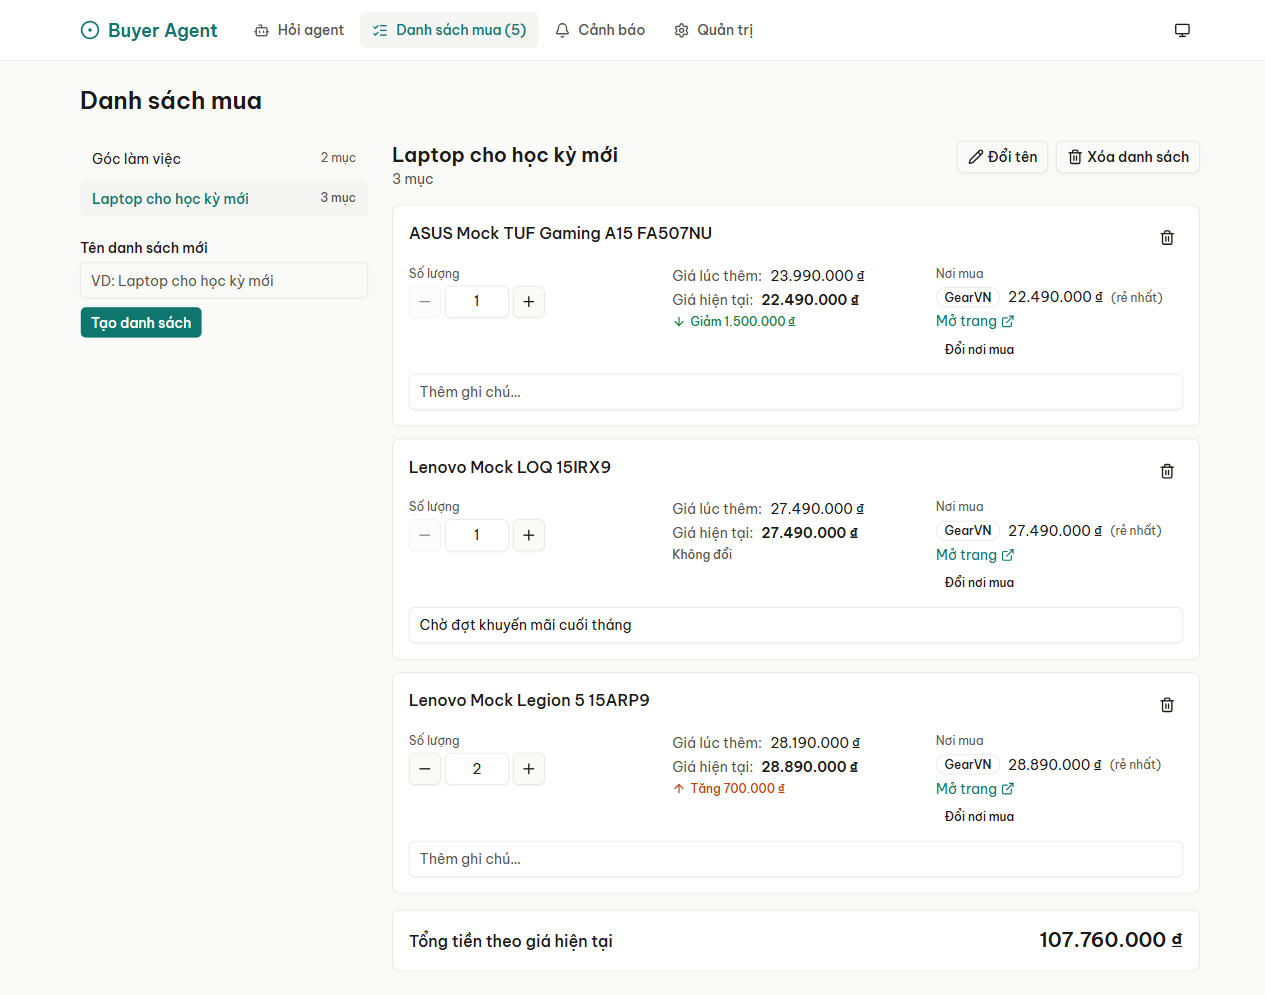
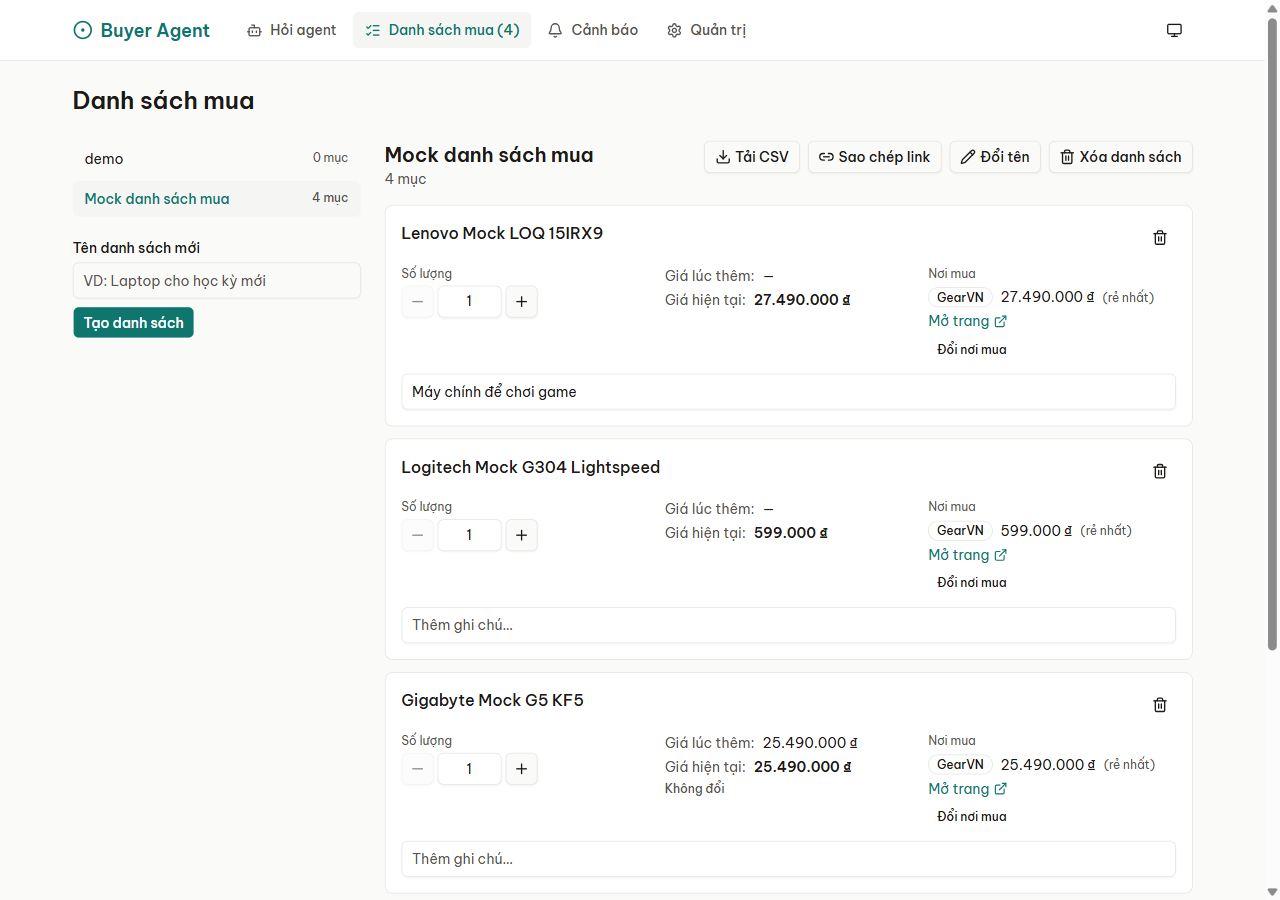
feat(X3.2): download CSV and copy link buttons on list detail

diff --git a/frontend/src/features/lists/CopyLinkButton.test.tsx b/frontend/src/features/lists/CopyLinkButton.test.tsx
@@ -1,0 +1,85 @@
+import { act, screen } from '@testing-library/react'
+import userEvent from '@testing-library/user-event'
+import { strings } from '@/lib/strings'
+import { renderWithProviders } from '@/test/renderWithProviders'
+import { COPIED_RESET_MS, CopyLinkButton } from './CopyLinkButton'
+
+const text = strings.lists
+const expectedUrl = `${window.location.origin}/lists/7`
+
+function stubClipboard(writeText: (value: string) => Promise<void>) {
+  Object.defineProperty(navigator, 'clipboard', {
+    configurable: true,
+    value: { writeText: vi.fn(writeText) },
+  })
+  return navigator.clipboard.writeText as ReturnType<typeof vi.fn>
+}
+
+afterEach(() => {
+  Reflect.deleteProperty(navigator, 'clipboard')
+  vi.useRealTimers()
+})
+
+describe('CopyLinkButton', () => {
+  it('chép URL tuyệt đối của trang danh sách và báo "Đã sao chép link"', async () => {
+    const writeText = stubClipboard(() => Promise.resolve())
+    renderWithProviders(<CopyLinkButton listId={7} />)
+
+    await userEvent.click(screen.getByRole('button', { name: text.copyLink }))
+
+    expect(writeText).toHaveBeenCalledWith(expectedUrl)
+    expect(screen.getByRole('button', { name: text.linkCopied })).toBeInTheDocument()
+    expect(document.querySelector('[aria-live="polite"]')).toHaveTextContent(text.linkCopied)
+    expect(screen.queryByRole('alert')).not.toBeInTheDocument()
+  })
+
+  it('trở lại chữ "Sao chép link" sau một lúc', async () => {
+    vi.useFakeTimers({ shouldAdvanceTime: true })
+    stubClipboard(() => Promise.resolve())
+    renderWithProviders(<CopyLinkButton listId={7} />)
+
+    await userEvent.click(screen.getByRole('button', { name: text.copyLink }))
+    expect(screen.getByRole('button', { name: text.linkCopied })).toBeInTheDocument()
+    act(() => {
+      vi.advanceTimersByTime(COPIED_RESET_MS)
+    })
+
+    expect(screen.getByRole('button', { name: text.copyLink })).toBeInTheDocument()
+  })
+
+  it('clipboard từ chối: hiện ô chứa URL để chép thủ công', async () => {
+    stubClipboard(() => Promise.reject(new Error('denied')))
+    renderWithProviders(<CopyLinkButton listId={7} />)
+
+    await userEvent.click(screen.getByRole('button', { name: text.copyLink }))
+
+    const alert = screen.getByRole('alert')
+    expect(alert).toHaveTextContent(text.copyFailed)
+    const field = screen.getByRole('textbox', { name: text.shareUrl })
+    expect(field).toHaveValue(expectedUrl)
+    expect(field).toHaveAttribute('readonly')
+  })
+
+  it('không có clipboard (ngoài secure context): cũng hiện ô URL', async () => {
+    Reflect.deleteProperty(navigator, 'clipboard')
+    renderWithProviders(<CopyLinkButton listId={7} />)
+
+    await userEvent.click(screen.getByRole('button', { name: text.copyLink }))
+
+    expect(screen.getByRole('textbox', { name: text.shareUrl })).toHaveValue(expectedUrl)
+  })
+
+  it('chép lại được sau khi lỗi: ô URL biến mất khi thành công', async () => {
+    let fail = true
+    stubClipboard(() => (fail ? Promise.reject(new Error('denied')) : Promise.resolve()))
+    renderWithProviders(<CopyLinkButton listId={7} />)
+
+    await userEvent.click(screen.getByRole('button', { name: text.copyLink }))
+    expect(screen.getByRole('alert')).toBeInTheDocument()
+    fail = false
+    await userEvent.click(screen.getByRole('button', { name: text.copyLink }))
+
+    expect(screen.queryByRole('alert')).not.toBeInTheDocument()
+    expect(screen.getByRole('button', { name: text.linkCopied })).toBeInTheDocument()
+  })
+})

diff --git a/frontend/src/features/lists/CopyLinkButton.tsx b/frontend/src/features/lists/CopyLinkButton.tsx
@@ -1,0 +1,61 @@
+import { Check, Link2 } from 'lucide-react'
+import { useEffect, useRef, useState } from 'react'
+import { useHref } from 'react-router'
+import { Button } from '@/components/ui/button'
+import { Input } from '@/components/ui/input'
+import { strings } from '@/lib/strings'
+
+/** Thời gian (ms) giữ chữ "Đã sao chép" trên nút. */
+export const COPIED_RESET_MS = 2000
+
+type CopyState = 'idle' | 'copied' | 'failed'
+
+/**
+ * Chép URL tuyệt đối của trang danh sách vào clipboard (X3). App không có đăng nhập nên link mở
+ * được với bất kỳ ai truy cập được app. Không có clipboard (ngoài secure context) hoặc bị từ chối
+ * thì hiện ô chứa URL đã chọn sẵn để người dùng tự chép.
+ */
+export function CopyLinkButton({ listId }: { listId: number }) {
+  const href = useHref(`/lists/${listId}`)
+  const url = new URL(href, window.location.origin).toString()
+  const [state, setState] = useState<CopyState>('idle')
+  const timer = useRef<number | undefined>(undefined)
+  const text = strings.lists
+
+  useEffect(() => () => window.clearTimeout(timer.current), [])
+
+  const copy = async () => {
+    window.clearTimeout(timer.current)
+    try {
+      if (!navigator.clipboard) throw new Error('clipboard unavailable')
+      await navigator.clipboard.writeText(url)
+      setState('copied')
+      timer.current = window.setTimeout(() => setState('idle'), COPIED_RESET_MS)
+    } catch {
+      setState('failed')
+    }
+  }
+
+  return (
+    <>
+      <Button variant="outline" size="sm" onClick={() => void copy()}>
+        {state === 'copied' ? <Check aria-hidden="true" /> : <Link2 aria-hidden="true" />}
+        {state === 'copied' ? text.linkCopied : text.copyLink}
+      </Button>
+      <span aria-live="polite" className="sr-only">
+        {state === 'copied' ? text.linkCopied : ''}
+      </span>
+      {state === 'failed' ? (
+        <div role="alert" className="basis-full space-y-1 text-sm">
+          <p>{text.copyFailed}</p>
+          <Input
+            readOnly
+            value={url}
+            aria-label={text.shareUrl}
+            onFocus={(event) => event.currentTarget.select()}
+          />
+        </div>
+      ) : null}
+    </>
+  )
+}

diff --git a/frontend/src/features/lists/ListDetail.tsx b/frontend/src/features/lists/ListDetail.tsx
@@ -1,6 +1,7 @@
-import { Pencil, Trash2 } from 'lucide-react'
+import { Download, Pencil, Trash2 } from 'lucide-react'
 import { useState } from 'react'
 import { Link, useNavigate } from 'react-router'
+import { apiUrl } from '@/api/client'
 import { Price } from '@/components/common/badges'
 import { QueryBoundary } from '@/components/common/QueryBoundary'
 import { EmptyState } from '@/components/common/states'
@@ -9,6 +10,7 @@ import { Skeleton } from '@/components/ui/skeleton'
 import { errorMessage } from '@/lib/errorMessage'
 import { strings } from '@/lib/strings'
 import { useList, useRemoveItem, useUpdateItem, type ShoppingListDetail } from './api'
+import { CopyLinkButton } from './CopyLinkButton'
 import { DeleteListDialog, RenameListDialog } from './ListDialogs'
 import { ListItemCard } from './ListItemCard'
 
@@ -31,7 +33,17 @@ function DetailBody({ list }: { list: ShoppingListDetail }) {
           <h2 className="text-xl font-semibold break-words">{list.name}</h2>
           <p className="text-sm text-muted-foreground">{text.itemsCount(list.item_count)}</p>
         </div>
-        <div className="flex gap-2">
+        <div className="flex flex-wrap gap-2">
+          <Button asChild variant="outline" size="sm">
+            <a
+              href={apiUrl(`lists/${list.list_id}/export.csv`)}
+              download={`danh-sach-${list.list_id}.csv`}
+            >
+              <Download aria-hidden="true" />
+              {text.exportCsv}
+            </a>
+          </Button>
+          <CopyLinkButton listId={list.list_id} />
           <Button variant="outline" size="sm" onClick={() => setRenaming(true)}>
             <Pencil aria-hidden="true" />
             {text.rename}

diff --git a/frontend/src/pages/ListsPage.test.tsx b/frontend/src/pages/ListsPage.test.tsx
@@ -570,3 +570,34 @@ describe('ListsPage · ghi chú, nơi mua, xóa mục', () => {
     )
   })
 })
+
+describe('ListsPage · xuất CSV và chia sẻ link (X3)', () => {
+  it('nút "Tải CSV" là link tải về endpoint xuất của đúng danh sách', async () => {
+    installFakeLists([listDetail({ list_id: 4, items: [laptop] })])
+    renderAt('/lists/4')
+    const link = await screen.findByRole('link', { name: 'Tải CSV' })
+    expect(link).toHaveAttribute('href', apiUrl('lists/4/export.csv'))
+    expect(link).toHaveAttribute('download', 'danh-sach-4.csv')
+  })
+
+  it('danh sách rỗng vẫn có "Tải CSV" và "Sao chép link"', async () => {
+    installFakeLists([listDetail({ list_id: 9, items: [] })])
+    renderAt('/lists/9')
+    expect(await screen.findByRole('link', { name: 'Tải CSV' })).toBeInTheDocument()
+    expect(screen.getByRole('button', { name: 'Sao chép link' })).toBeInTheDocument()
+  })
+
+  it('"Sao chép link" chép URL trang của danh sách đang mở', async () => {
+    const writeText = vi.fn(() => Promise.resolve())
+    Object.defineProperty(navigator, 'clipboard', { configurable: true, value: { writeText } })
+    try {
+      installFakeLists([listDetail({ list_id: 4, items: [laptop] })])
+      renderAt('/lists/4')
+      await userEvent.click(await screen.findByRole('button', { name: 'Sao chép link' }))
+      expect(writeText).toHaveBeenCalledWith(`${window.location.origin}/lists/4`)
+      expect(screen.getByRole('button', { name: 'Đã sao chép link' })).toBeInTheDocument()
+    } finally {
+      Reflect.deleteProperty(navigator, 'clipboard')
+    }
+  })
+})

diff --git a/frontend/src/lib/strings.ts b/frontend/src/lib/strings.ts
@@ -125,6 +125,11 @@ export const strings = {
     total: 'Tổng tiền theo giá hiện tại',
     totalNote: 'Các mục không còn bán không được tính vào tổng.',
     actionError: 'Không cập nhật được danh sách',
+    exportCsv: 'Tải CSV',
+    copyLink: 'Sao chép link',
+    linkCopied: 'Đã sao chép link',
+    copyFailed: 'Không sao chép được, hãy chép link thủ công:',
+    shareUrl: 'Link danh sách',
   },
   alerts: {
     filterLabel: 'Lọc theo trạng thái',

diff --git a/docs/PROGRESS.md b/docs/PROGRESS.md
@@ -3,7 +3,7 @@
 > Claude Code cập nhật file này ở bước `/done` của mỗi milestone (`/done <task>` chỉ sửa dòng "Đang làm"). Giữ **dưới 60 dòng**: chỉ trạng thái hiện tại, không ghi nhật ký dài (lịch sử chi tiết trước 2026-11-01 nằm ở tag `archive/full-history`; `main` được gộp thành 1 commit, sau đó dùng git log như thường).
 > Backlog đầy đủ: [11-roadmap-backlog.md](11-roadmap-backlog.md)
 ## Trạng thái
-- Đang làm: 🔄 X3 Xuất danh sách mua ra CSV / chia sẻ link (nhánh `milestone/X3-shopping-list-export`; X3.1 endpoint CSV ✅, đang làm X3.2 nút "Tải CSV" + "Sao chép link"). Lượt "việc nhỏ 7" đã merge vào `main` (995c4ad).
+- Đang làm: 🔄 X3 Xuất danh sách mua ra CSV / chia sẻ link (nhánh `milestone/X3-shopping-list-export`; X3.1 endpoint CSV ✅, X3.2 nút "Tải CSV" + "Sao chép link" ✅; tiếp theo `/check`, `/review X3`). Lượt "việc nhỏ 7" đã merge vào `main` (995c4ad).
 - Backlog chưa làm: T6.7 phần còn lại ((a) `LlmSpecsFiller` ngoài giao dịch lưu, (e), (g), đo lại eval bằng LLM thật: L10 và 14 câu mới có `min_results` có thể rớt), T8.12 đã xong. Không còn `xfail` đã biết. Người dùng nhớ đặt `GEMINI_MODEL=gemini-3.5-flash-lite` và `SCRAPER_OFFLINE_ONLY=true` trong `.env`.
 - Cập nhật lần cuối: 2026-11-04 — lượt "việc nhỏ 7" (màu switch tiếng Anh sau "<màu> Switch", 4 điểm UI T8.12, seed `eval` có ca khó + `min_results`, `app/db/migrations.py`, `agent/prompt_loader.py`)
 
